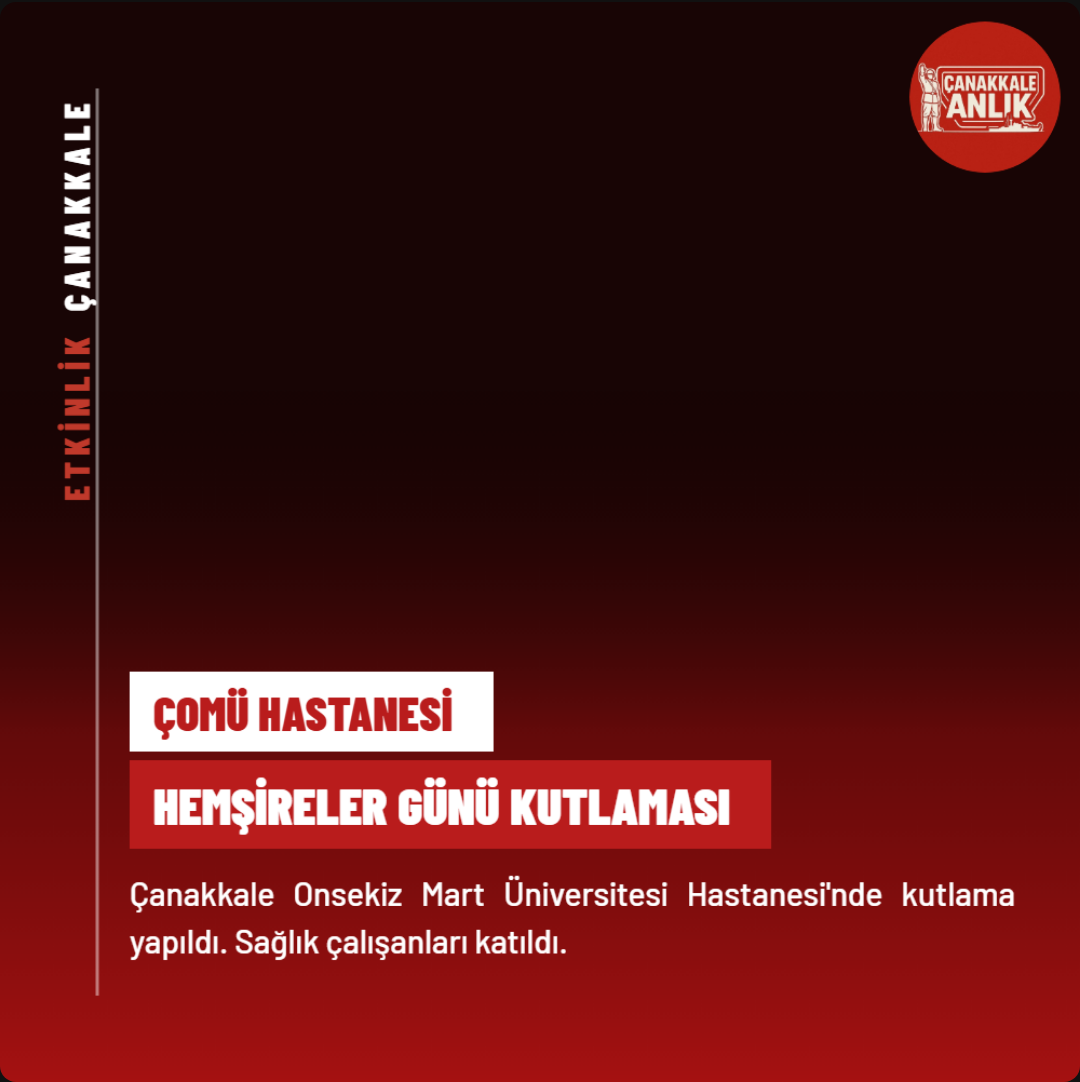
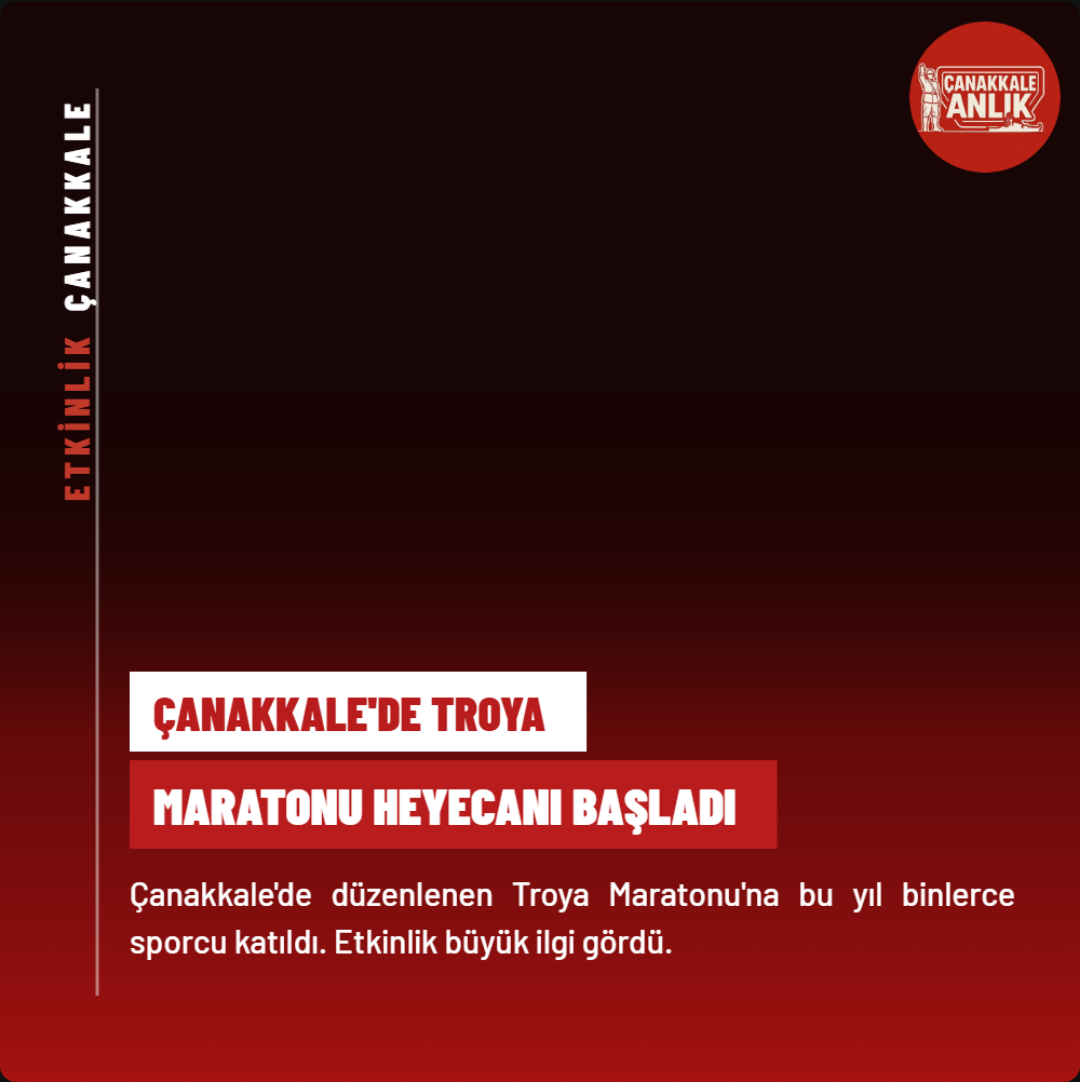
AHBU-4: feat: add Hugging Face AI image generation for news visuals

Changed region(s): [[0.1222, 0.793, 0.9472, 0.8845], [0.1528, 0.61, 0.7333, 0.793]]

diff --git a/canakkale-anlik.html b/canakkale-anlik.html
@@ -528,6 +528,10 @@ function drawRich(text,x,y,maxW,fs){
   if(params.get("desc")) gi("iDesc").value = params.get("desc");
   if(params.get("cat")) activeCat = params.get("cat");
   if(params.get("loc")) gi("iLoc").value = params.get("loc");
+  if(params.get("img")) {
+  hasBg = false;
+  bgImg.src = params.get("img");
+}
 })();
 
 document.fonts.ready.then(function(){draw();});

diff --git a/main.py b/main.py
@@ -6,7 +6,7 @@ from scraper import get_all_news, get_article_detail
 from image_generator import create_news_image, start_server
 from telegram_sender import send_photo, send_message
 from config import CATEGORY_RULES, DEFAULT_CATEGORY, MAX_NEWS_PER_RUN, SERVER_PORT
-from rewriter import rewrite_news
+from rewriter import rewrite_news, generate_image_prompt
 
 # ---------------------------------------------------
 # AYARLAR
@@ -41,24 +41,22 @@ def sent_news_kaydet(liste):
         json.dump(liste, f, ensure_ascii=False, indent=2)
 
 
-import re
-
 def determine_category(title, description=""):
     """
     Haber başlığı ve açıklamasına göre kategori belirler.
-    Tam kelime eşleşmesi kullanır — 'kar' kelimesi 
+    Tam kelime eşleşmesi kullanır — 'kar' kelimesi
     'kariyer' içinde eşleşmez.
     """
     t = (title + " " + description).lower()
-    
+
     for category, keywords in CATEGORY_RULES.items():
         for kelime in keywords:
-            # Tam kelime eşleşmesi
             pattern = r'\b' + re.escape(kelime) + r'\b'
             if re.search(pattern, t):
                 return category
-    
+
     return DEFAULT_CATEGORY
+
 
 def groq_category(title, description=""):
     """
@@ -67,8 +65,6 @@ def groq_category(title, description=""):
     """
     from rewriter import GROQ_API_KEY
     import requests
-
-    kategoriler = ", ".join(CATEGORY_RULES.keys())
 
     prompt = f"""Aşağıdaki Türkçe haberi EN UYGUN kategoriye yerleştir.
 
@@ -118,7 +114,6 @@ Açıklama: {description}"""
         data = response.json()
         kategori = data["choices"][0]["message"]["content"].strip().upper()
 
-        # Geçerli kategori mi?
         gecerli_kategoriler = list(CATEGORY_RULES.keys()) + ["GÜNDEM"]
         if kategori in gecerli_kategoriler:
             return kategori
@@ -127,53 +122,39 @@ Açıklama: {description}"""
     except Exception as e:
         print(f"  Groq kategori hatası: {e}")
         return DEFAULT_CATEGORY
-    
+
+
 def get_category(title, description=""):
     """
     Hibrit kategori belirleme fonksiyonu.
-
     1. Önce manuel liste ile dene
     2. GÜNDEM dönerse → Groq'a sor
     3. Groq da GÜNDEM dönerse → GÜNDEM kalsın
-
-    Neden hibrit?
-    - Manuel liste hızlı ve ücretsiz
-    - Groq sadece belirsiz haberler için çağrılır
-    - Groq kotası korunur
     """
-    # 1. ADIM: Manuel liste
     manuel_kategori = determine_category(title, description)
 
-    # 2. ADIM: Manuel GÜNDEM döndürdüyse Groq'a sor
     if manuel_kategori == DEFAULT_CATEGORY:
         print(f"  Kategori belirsiz, AI'ya soruluyor...")
         return groq_category(title, description)
 
-    # 3. ADIM: Manuel sonuç verdiyse direkt döndür
-    return manuel_kategori    
+    return manuel_kategori
+
 
 def gonderilecek_haberleri_sec(yeni_haberler):
     """
     Gönderilecek haberleri seçer.
-
     1. TUR: Her siteden 1'er haber al
     2. TUR: Slot dolmadıysa kalan haberlerle tamamla
-
-    Örnek:
-    - 3 siteden haber var → her birinden 1 = 3 haber
-    - 1 siteden haber var → o siteden 3 haber
     """
     site_counts = defaultdict(int)
     gonderilecekler = []
 
-    # 1. TUR: Her siteden 1'er haber al
     for haber in yeni_haberler:
         site = haber["source"]
         if site_counts[site] < 1 and len(gonderilecekler) < MAX_NEWS_PER_RUN:
             gonderilecekler.append(haber)
             site_counts[site] += 1
 
-    # 2. TUR: Slot dolmadıysa kalan haberleri ekle
     if len(gonderilecekler) < MAX_NEWS_PER_RUN:
         for haber in yeni_haberler:
             if len(gonderilecekler) >= MAX_NEWS_PER_RUN:
@@ -182,6 +163,7 @@ def gonderilecek_haberleri_sec(yeni_haberler):
                 gonderilecekler.append(haber)
 
     return gonderilecekler
+
 
 def main():
     print("=" * 50)
@@ -235,13 +217,19 @@ def main():
         )
         print(f"  Yeni başlık: {yeni_baslik[:50]}...")
 
+        # Kategoriyi belirle — hem görsel hem şablon için kullanılır
+        kategori = get_category(haber["title"], detay["description"])
+
+        # Görsel prompt üret
+        gorsel_prompt = generate_image_prompt(yeni_baslik, kategori)
+
         # Görseli oluştur
         gorsel_yolu = create_news_image(
             title=yeni_baslik,
             description=yeni_aciklama,
             source=haber["source"],
-            image_url=detay["image_url"],
-            category=get_category(haber["title"], detay["description"])
+            image_prompt=gorsel_prompt,
+            category=kategori
         )
 
         # Telegram mesajını hazırla

diff --git a/image_generator.py b/image_generator.py
@@ -2,10 +2,12 @@ import os
 import threading
 import urllib.parse
 import http.server
+import urllib.parse as url_parse
 from playwright.sync_api import sync_playwright
 
 BASE_DIR = os.path.dirname(os.path.abspath(__file__))
 OUTPUT_PATH = os.path.join(BASE_DIR, "haber_gorseli.png")
+BG_PATH = os.path.join(BASE_DIR, "haber_gorseli_bg.png")
 PORT = 8765
 
 
@@ -26,12 +28,52 @@ def start_server():
     return server
 
 
+def gorsel_olustur(prompt):
+    """
+    Hugging Face API ile AI görsel üretir.
+    Stable Diffusion XL kullanır.
+    Görsel binary olarak gelir, dosyaya kaydedilir.
+    """
+    import requests as req
+
+    HF_API_KEY = os.getenv("HF_API_KEY")
+
+    headers = {
+        "Authorization": f"Bearer {HF_API_KEY}",
+        "Content-Type": "application/json"
+    }
+
+    body = {
+        "inputs": prompt,
+        "parameters": {
+            "width": 1024,
+            "height": 1024
+        }
+    }
+
+    try:
+        response = req.post(
+            "https://api-inference.huggingface.co/models/stabilityai/stable-diffusion-xl-base-1.0",
+            headers=headers,
+            json=body,
+            timeout=60
+        )
+
+        if response.status_code == 200:
+            with open(BG_PATH, "wb") as f:
+                f.write(response.content)
+            print(f"  AI görsel oluşturuldu: {BG_PATH}")
+            return BG_PATH
+        else:
+            print(f"  HF hatası: {response.status_code} - {response.text[:100]}")
+            return None
+
+    except Exception as e:
+        print(f"  Görsel üretim hatası: {e}")
+        return None
+
+
 def turkce_buyut(text):
-    """
-    Türkçe karakterleri doğru büyütür.
-    Python upper() → 'i' = 'I' (YANLIŞ)
-    Bu fonksiyon → 'i' = 'İ' (DOĞRU)
-    """
     return (text
         .replace("i", "İ")
         .replace("ı", "I")
@@ -45,11 +87,6 @@ def turkce_buyut(text):
 
 
 def _son_cumlede_kes(metin):
-    """
-    Metni son tam cümlede keser.
-    Nokta, ünlem veya soru işaretinde biter.
-    Bitmiyorsa olduğu gibi döner.
-    """
     for isaret in [".", "!", "?"]:
         son = metin.rfind(isaret)
         if son > 0:
@@ -57,14 +94,14 @@ def _son_cumlede_kes(metin):
     return metin
 
 
-def create_news_image(title, description, source, image_url=None, category=""):
+def create_news_image(title, description, source, image_prompt="", category=""):
     """
     Haber görseli oluşturur.
-    title       → haberin başlığı
-    description → haberin kısa açıklaması
-    source      → kaynak site adı
-    image_url   → arka plan görseli URL'si (opsiyonel)
-    category    → haber kategorisi
+    title        → haberin başlığı
+    description  → haberin kısa açıklaması
+    source       → kaynak site adı
+    image_prompt → AI görsel prompt'u (Hugging Face'e gönderilir)
+    category     → haber kategorisi
     """
     # Başlığı ikiye böl
     words = title.split()
@@ -75,12 +112,17 @@ def create_news_image(title, description, source, image_url=None, category=""):
     # Açıklamayı son tam cümlede kes
     temiz_aciklama = _son_cumlede_kes(description) if description else ""
 
+    # AI görsel üret
+    bg_path = None
+    if image_prompt:
+        bg_path = gorsel_olustur(image_prompt)
+
     params = urllib.parse.urlencode({
         "h1": h1,
         "h2": h2,
         "desc": temiz_aciklama,
         "cat": category,
-        "img": image_url or ""
+        "img": f"http://localhost:{PORT}/haber_gorseli_bg.png" if bg_path else ""
     })
 
     url = f"http://localhost:{PORT}/canakkale-anlik.html?{params}"
@@ -109,6 +151,7 @@ if __name__ == "__main__":
         title="Çanakkale'de Troya Maratonu heyecanı başladı",
         description="Çanakkale'de düzenlenen Troya Maratonu'na bu yıl binlerce sporcu katıldı. Etkinlik büyük ilgi gördü.",
         source="Çanakkale Haber",
+        image_prompt="marathon runners on a coastal road Turkey Canakkale photorealistic",
         category="ETKİNLİK"
     )
 

diff --git a/rewriter.py b/rewriter.py
@@ -75,7 +75,83 @@ AÇIKLAMA: yeniden yazılmış açıklama"""
         return title, description
 
 
+def generate_image_prompt(title, category):
+    """
+    Haber başlığı ve kategorisinden İngilizce görsel prompt üretir.
+    Pollinations.ai için kullanılır.
+
+    Akış:
+    Türkçe başlık → Groq → İngilizce prompt → Pollinations → Görsel
+    """
+    prompt_text = f"""Aşağıdaki Türkçe haber için Pollinations.ai'ye gönderilecek
+bir İngilizce görsel prompt yaz.
+
+Kurallar:
+- Maksimum 10 kelime
+- Fotoğraf gerçekçi tarzda olsun
+- Metin, yazı, harf içermesin
+- Türkiye'ye uygun görsel olsun
+- Sadece prompt yaz, başka hiçbir şey yazma
+
+Haber başlığı: {title}
+Kategori: {category}"""
+
+    headers = {
+        "Authorization": f"Bearer {GROQ_API_KEY}",
+        "Content-Type": "application/json"
+    }
+
+    body = {
+        "model": "llama-3.3-70b-versatile",
+        "messages": [
+            {
+                "role": "system",
+                "content": "Sen görsel prompt üretiyorsun. Sadece İngilizce prompt yaz, başka hiçbir şey yazma."
+            },
+            {
+                "role": "user",
+                "content": prompt_text
+            }
+        ],
+        "temperature": 0.7
+    }
+
+    try:
+        response = requests.post(
+            "https://api.groq.com/openai/v1/chat/completions",
+            headers=headers,
+            json=body,
+            timeout=10
+        )
+        data = response.json()
+        prompt = data["choices"][0]["message"]["content"].strip()
+
+        # Tırnak işaretlerini temizle
+        prompt = prompt.strip('"').strip("'")
+        print(f"  Görsel prompt: {prompt}")
+        return prompt
+
+    except Exception as e:
+        print(f"  Prompt hatası: {e}")
+        # Hata olursa kategori bazlı varsayılan prompt
+        varsayilan = {
+            "TRAFİK": "traffic accident Turkey street photorealistic",
+            "HAVA": "stormy weather Turkey landscape photorealistic",
+            "ASAYİŞ": "police operation Turkey city photorealistic",
+            "SPOR": "sports event Turkey stadium photorealistic",
+            "ETKİNLİK": "cultural event Turkey outdoor photorealistic",
+            "EĞİTİM": "university students Turkey campus photorealistic",
+            "KÜLTÜR": "Turkish culture art museum photorealistic",
+            "DUYURU": "city hall Turkey announcement photorealistic",
+        }
+        return varsayilan.get(category, "Canakkale Turkey city photorealistic")
+
+
+# ---------------------------------------------------
+# TEST BLOĞU
+# ---------------------------------------------------
 if __name__ == "__main__":
+    # rewrite_news testi
     baslik = "Çanakkale'de trafik kazası: 2 kişi yaralandı"
     aciklama = "Merkez ilçede meydana gelen trafik kazasında 2 kişi yaralanarak hastaneye kaldırıldı."
 
@@ -85,3 +161,8 @@ if __name__ == "__main__":
     print(f"---")
     print(f"Orijinal açıklama : {aciklama}")
     print(f"Yeni açıklama     : {yeni_aciklama}")
+    print(f"---")
+
+    # generate_image_prompt testi
+    prompt = generate_image_prompt(yeni_baslik, "TRAFİK")
+    print(f"Görsel prompt     : {prompt}")
